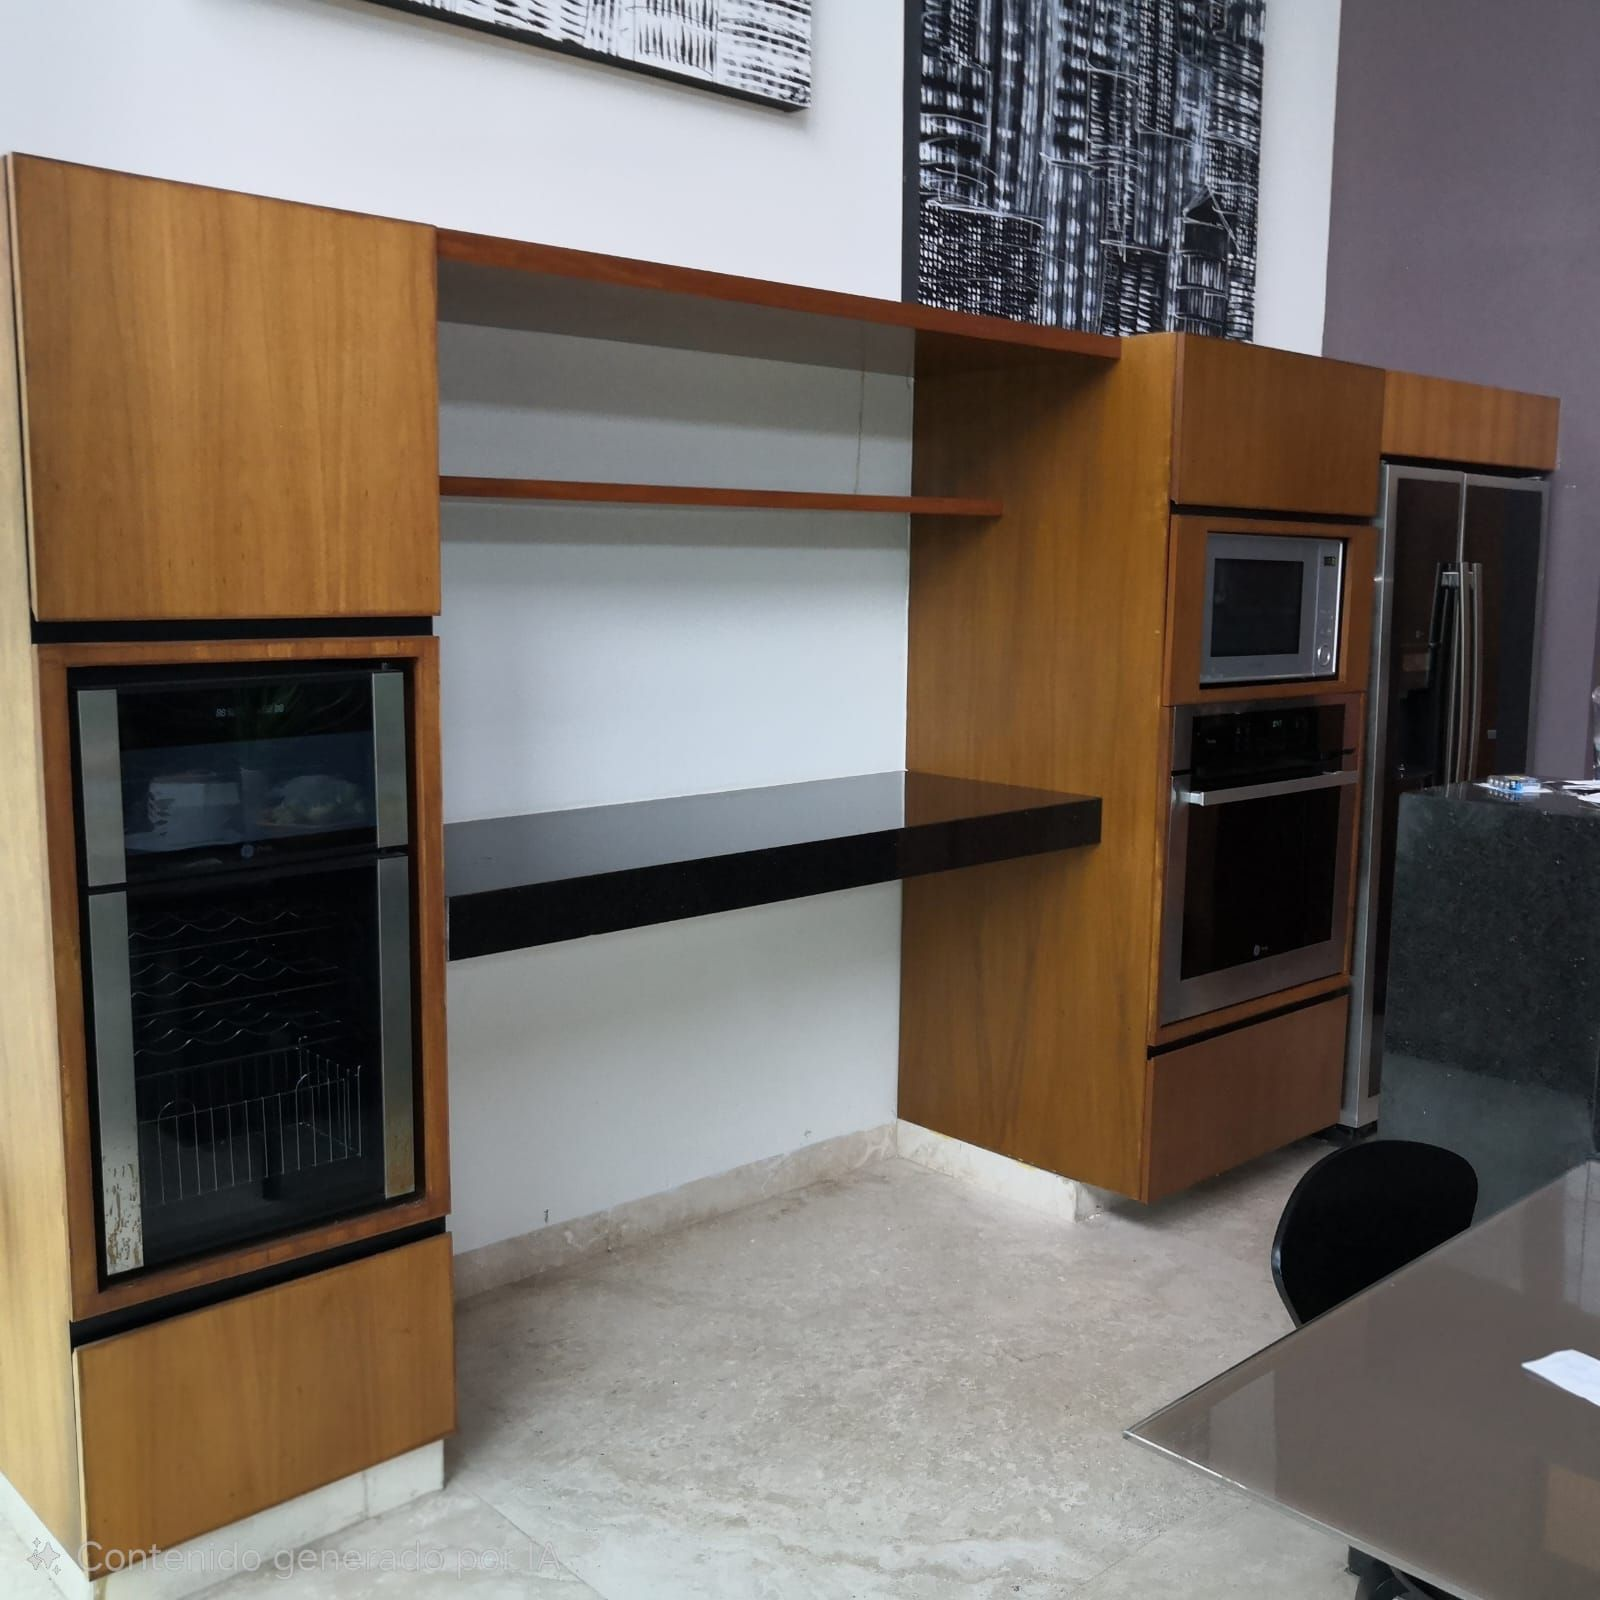
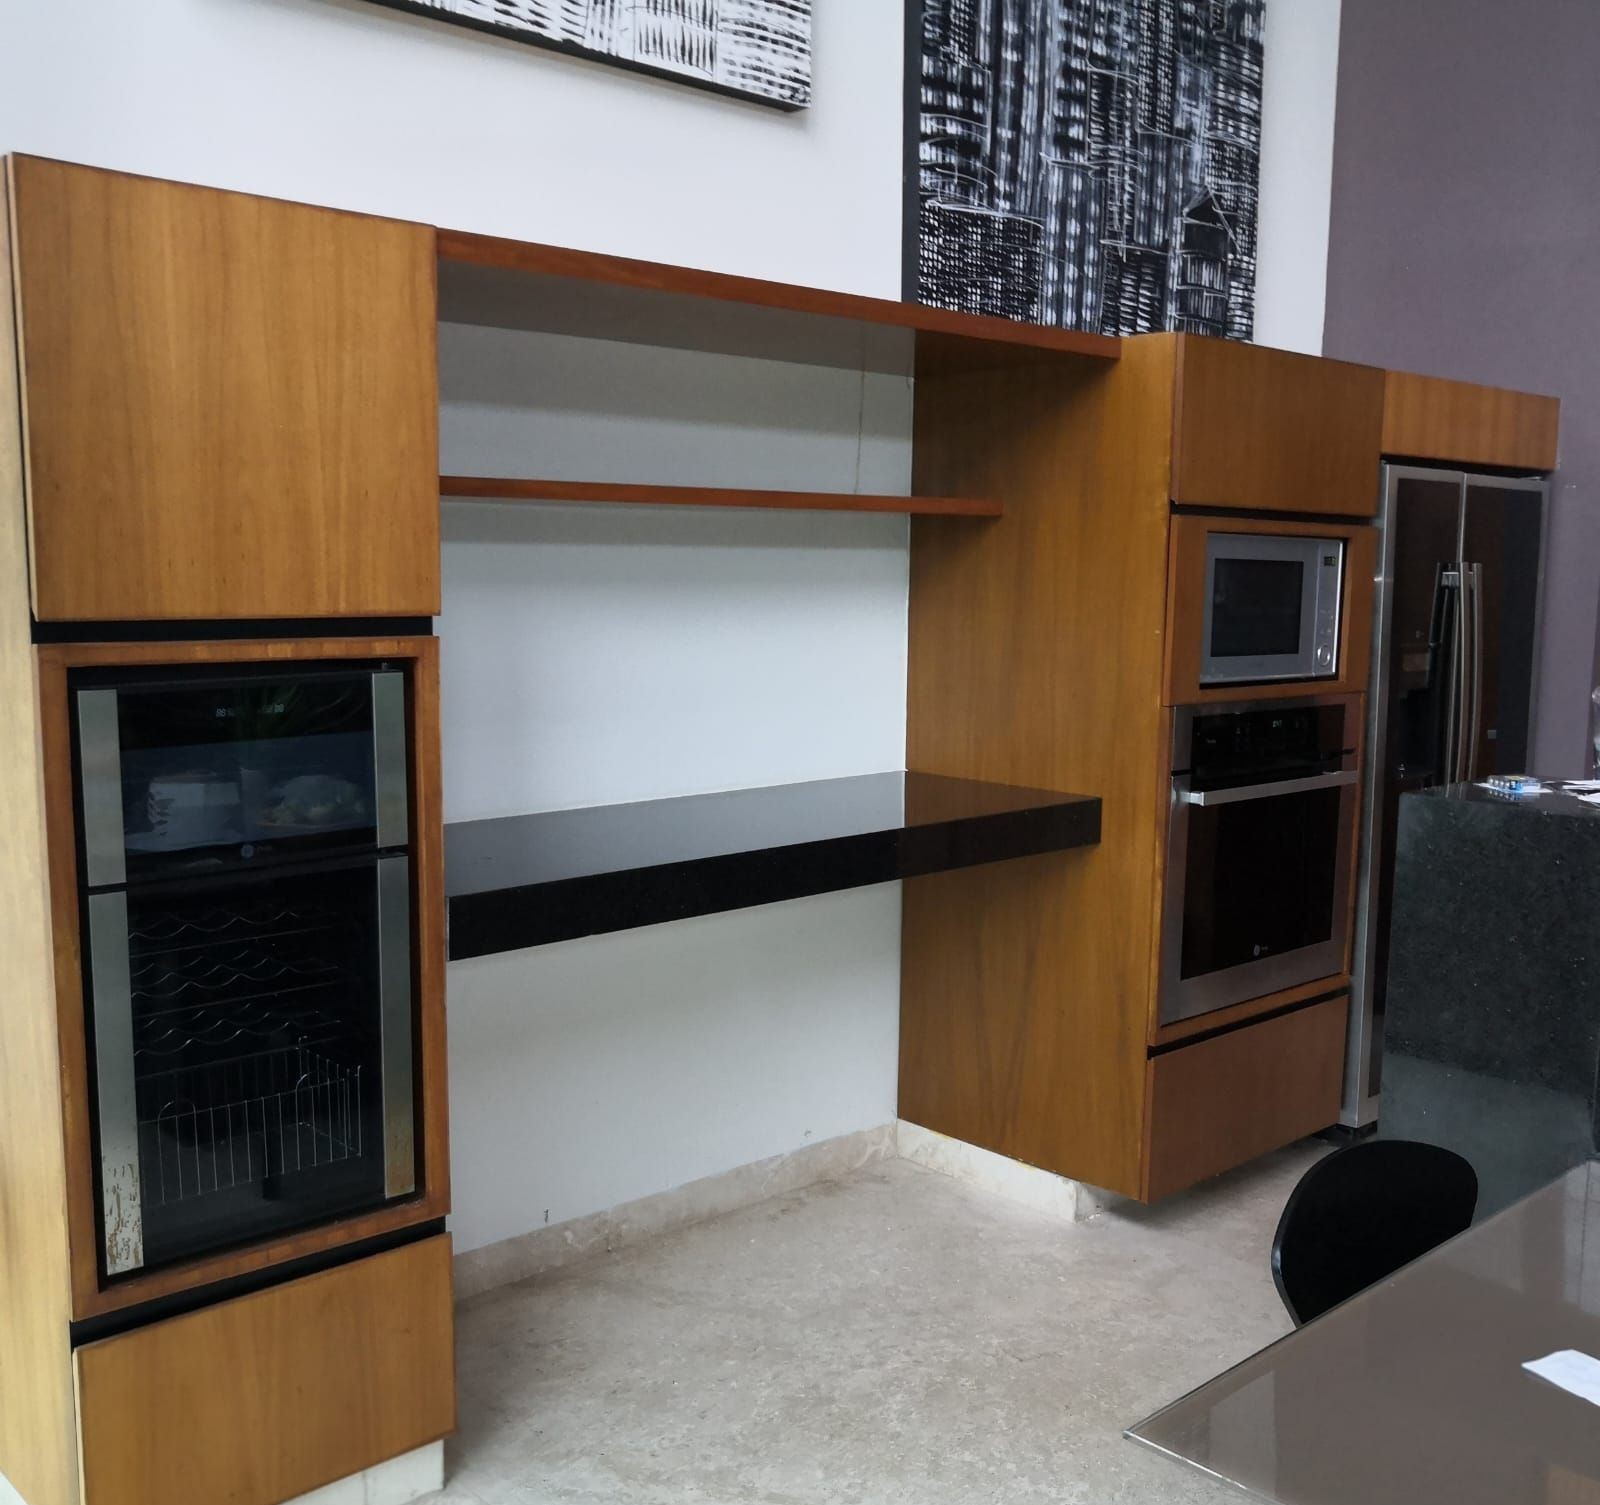
Update Images and files

diff --git a/app/terminos_y_condiciones/page.tsx b/app/terminos_y_condiciones/page.tsx
@@ -1,0 +1,124 @@
+import Header from "../components/Header";
+import Footer from "../components/Footer";
+
+export const metadata = {
+  title: "Términos y Condiciones",
+};
+
+export default function TerminosYCondiciones() {
+  return (
+    <>
+      <Header />
+
+      <main className="max-w-4xl mx-auto px-6 py-20 text-gray-800">
+        <h1 className="text-3xl font-title mb-6">Términos y Condiciones</h1>
+
+        <p className="mb-4 text-sm text-gray-500">
+          Última actualización: {new Date().toLocaleDateString("es-MX")}
+        </p>
+
+        <section className="space-y-6 leading-relaxed">
+          <p>
+            Al acceder y utilizar este sitio web, el usuario acepta los
+            presentes Términos y Condiciones. Si no está de acuerdo con alguno
+            de ellos, se recomienda no utilizar este sitio.
+          </p>
+
+          <div>
+            <h2 className="text-xl font-title mb-2">
+              1. Uso del sitio web
+            </h2>
+            <p>
+              Este sitio web tiene como finalidad proporcionar información
+              general sobre los servicios ofrecidos por{" "}
+              <strong>Yaxnic Muebles</strong>. La información publicada es
+              meramente informativa y puede cambiar sin previo aviso.
+            </p>
+          </div>
+
+          <div>
+            <h2 className="text-xl font-title mb-2">
+              2. Cotizaciones y servicios
+            </h2>
+            <p>
+              Las cotizaciones de los servicios no se realizan a través de este
+              sitio web. Cualquier cotización, presupuesto o acuerdo se llevará
+              a cabo exclusivamente por medio de comunicación directa, ya sea
+              vía WhatsApp o correo electrónico.
+            </p>
+            <p className="mt-2">
+              El envío de un mensaje o solicitud de información no representa un
+              compromiso u obligación contractual para ninguna de las partes.
+            </p>
+          </div>
+
+          <div>
+            <h2 className="text-xl font-title mb-2">
+              3. Propiedad intelectual
+            </h2>
+            <p>
+              Todos los contenidos de este sitio web, incluyendo textos,
+              imágenes, logotipos y diseño, son propiedad de{" "}
+              <strong>Yaxnic Muebles</strong> o se utilizan con la
+              autorización correspondiente, y están protegidos por la
+              legislación aplicable.
+            </p>
+            <p className="mt-2">
+              Queda prohibida su reproducción total o parcial sin autorización
+              previa.
+            </p>
+          </div>
+
+          <div>
+            <h2 className="text-xl font-title mb-2">
+              4. Limitación de responsabilidad
+            </h2>
+            <p>
+              <strong>Yaxnic Muebles</strong> no se hace responsable por
+              el uso que el usuario haga de la información contenida en este
+              sitio web, ni por posibles daños derivados del acceso o uso del
+              mismo.
+            </p>
+          </div>
+
+          <div>
+            <h2 className="text-xl font-title mb-2">
+              5. Enlaces a sitios de terceros
+            </h2>
+            <p>
+              Este sitio puede contener enlaces a plataformas externas, como
+              WhatsApp.{" "}
+              <strong>Yaxnic Muebles</strong> no se hace responsable por
+              el contenido, políticas o prácticas de privacidad de dichos
+              sitios.
+            </p>
+          </div>
+
+          <div>
+            <h2 className="text-xl font-title mb-2">
+              6. Modificaciones
+            </h2>
+            <p>
+              <strong>Yaxnic Muebles</strong> se reserva el derecho de
+              modificar estos Términos y Condiciones en cualquier momento. Las
+              modificaciones entrarán en vigor una vez publicadas en esta
+              sección.
+            </p>
+          </div>
+
+          <div>
+            <h2 className="text-xl font-title mb-2">
+              7. Legislación aplicable
+            </h2>
+            <p>
+              Estos Términos y Condiciones se rigen por las leyes aplicables en
+              los Estados Unidos Mexicanos.
+            </p>
+          </div>
+        </section>
+      </main>
+
+      <Footer />
+    </>
+  );
+}

diff --git a/app/aviso_de_privacidad/page.tsx b/app/aviso_de_privacidad/page.tsx
@@ -1,0 +1,116 @@
+import Header from "../components/Header";
+import Footer from "../components/Footer";
+
+export const metadata = {
+  title: "Aviso de Privacidad",
+};
+
+export default function AvisoDePrivacidad() {
+  return (
+    <>
+      <Header />
+
+      <main className="max-w-4xl mx-auto px-6 py-24 text-gray-800">
+        <h1 className="text-3xl font-title mb-6">Aviso de Privacidad</h1>
+
+        <p className="mb-4 text-sm text-gray-500">
+          Última actualización: {new Date().toLocaleDateString("es-MX")}
+        </p>
+
+        <section className="space-y-6 leading-relaxed">
+          <p>
+            En cumplimiento con lo establecido por la{" "}
+            <strong>
+              Ley Federal de Protección de Datos Personales en Posesión de los
+              Particulares
+            </strong>
+            , se informa lo siguiente:
+          </p>
+
+          <div>
+            <h2 className="text-xl font-title mb-2">
+              1. Responsable de los datos personales
+            </h2>
+            <p>
+              <strong>YaxnicMuebles</strong>, con domicilio en{" "}
+              <strong>Calle 18, 97390 Umán, Yuc. México  </strong>, es responsable del uso y
+              protección de sus datos personales.
+            </p>
+          </div>
+
+          <div>
+            <h2 className="text-xl font-title mb-2">
+              2. Datos personales que se recaban
+            </h2>
+            <ul className="list-disc list-inside">
+              <li>Nombre</li>
+              <li>Correo electrónico</li>
+              <li>Número telefónico</li>
+              <li>Mensaje o información relacionada con la solicitud</li>
+            </ul>
+            <p className="mt-2">
+              Los datos se proporcionan de manera voluntaria mediante el
+              formulario de contacto o comunicación vía WhatsApp.
+            </p>
+          </div>
+
+          <div>
+            <h2 className="text-xl font-title mb-2">
+              3. Finalidad del tratamiento de los datos
+            </h2>
+            <ul className="list-disc list-inside">
+              <li>Atender solicitudes de información</li>
+              <li>Responder mensajes enviados por el formulario</li>
+              <li>Dar seguimiento a consultas por correo o WhatsApp</li>
+            </ul>
+          </div>
+
+          <div>
+            <h2 className="text-xl font-title mb-2">
+              4. Transferencia de datos
+            </h2>
+            <p>
+              Sus datos personales no serán compartidos, vendidos ni
+              transferidos a terceros sin su consentimiento, salvo obligación
+              legal.
+            </p>
+          </div>
+
+          <div>
+            <h2 className="text-xl font-title mb-2">
+              5. Uso de plataformas de terceros
+            </h2>
+            <p>
+              El uso del botón de WhatsApp implica que la comunicación se
+              realizará mediante una plataforma externa, sujeta a sus propias
+              políticas de privacidad.
+            </p>
+          </div>
+
+          <div>
+            <h2 className="text-xl font-title mb-2">6. Derechos ARCO</h2>
+            <p>
+              El titular puede Acceder, Rectificar, Cancelar u Oponerse al
+              tratamiento de sus datos personales.
+            </p>
+            <p className="mt-2 font-medium">
+              yaxnicmuebles@gmail.com
+            </p>
+          </div>
+
+          <div>
+            <h2 className="text-xl font-title mb-2">
+              7. Cambios al aviso de privacidad
+            </h2>
+            <p>
+              Este aviso puede ser modificado en cualquier momento. Las
+              actualizaciones se publicarán en esta misma sección.
+            </p>
+          </div>
+        </section>
+      </main>
+
+      <Footer />
+    </>
+  );
+}

diff --git a/app/proyectos/[categoria]/page.tsx b/app/proyectos/[categoria]/page.tsx
@@ -23,10 +23,10 @@ const proyectos = [ { id: "1", nombre: "Proyecto Alpha", descripcion: "Descripci
   //{ id: "6", nombre: "Proyecto Zeta", descripcion: "Descripción del Proyecto Zeta", categoria: "Baños", imagenes: ['yaxnicMuebles/banos/bano1-1', 'yaxnicMuebles/banos/bano1-2', 'yaxnicMuebles/banos/bano1-3'] }, // 
   //{ id: "7", nombre: "Proyecto Eta", descripcion: "Descripción del Proyecto Eta", categoria: "Recámaras", imagenes: ['yaxnicMuebles/recamaras/recamara1-1', 'yaxnicMuebles/recamaras/recamara1-2', 'yaxnicMuebles/recamaras/recamara1-3'] }, 
   // // { id: "8", nombre: "Proyecto Theta", descripcion: "Descripción del Proyecto Theta", categoria: "Sillas y Mesas", imagenes: ['yaxnicMuebles/sillas_y_mesas/mesas1-1', 'yaxnicMuebles/sillas_y_mesas/mesas1-2', 'yaxnicMuebles/sillas_y_mesas/mesas1-3'] }, 
-    { id: "59", nombre: "Proyecto Stabucks Chetumal", descripcion: "Proyecto starbucks chetumal", categoria: "Comerciales", imagenes: ['/yaxnicMuebles/comerciales/comercial1-1.jpg', '/yaxnicMuebles/comerciales/comercial1-2.jpg', '/yaxnicMuebles/comerciales/comercial1-3.jpg'] },
+    { id: "59", nombre: "Proyecto Stabucks Chetumal", descripcion: "Proyecto starbucks chetumal", categoria: "Comerciales", imagenes: ['/yaxnicMuebles/comerciales/comercial1-1.webp', '/yaxnicMuebles/comerciales/comercial1-2.jpg', '/yaxnicMuebles/comerciales/comercial1-3.jpg'] },
   // 
     { id: "60", nombre: "Proyecto Restauracion", descripcion: "Descripción del Proyecto Comercial 2", categoria: "Restauraciones", imagenes: ['/yaxnicMuebles/restauraciones/restauracion1-1.jpg', '/yaxnicMuebles/restauraciones/restauracion1-2.jpg', '/yaxnicMuebles/restauraciones/restauracion1-3.jpg'] },
-    { id: "61", nombre: "Proyecto Restauracion", descripcion: "Descripción del Proyecto Comercial 2", categoria: "Restauraciones", imagenes: ['/yaxnicMuebles/restauraciones/restauracion2-1.jpg', '/yaxnicMuebles/restauraciones/restauracion2-2.jpg', '/yaxnicMuebles/restauraciones/restauracion2-3.jpg', '/yacnicMuebles/restauraciones/restauracion2-4.jpg', 'restauraciones/restauracion2-5.jpg'] },
+    { id: "61", nombre: "Proyecto Restauracion", descripcion: "Descripción del Proyecto Comercial 2", categoria: "Restauraciones", imagenes: ['/yaxnicMuebles/restauraciones/restauracion2-1.jpg', '/yaxnicMuebles/restauraciones/restauracion2-2.jpg', '/yaxnicMuebles/restauraciones/restauracion2-3.jpg', '/yaxnicMuebles/restauraciones/restauracion2-4.jpg', '/yaxnicMuebles/restauraciones/restauracion2-5.jpg'] },
     { id: "62", nombre: "Proyecto Restauracion", descripcion: "Descripción del Proyecto Comercial 2", categoria: "Restauraciones", imagenes: ['/yaxnicMuebles/restauraciones/restauracion3-1.jpg', '/yaxnicMuebles/restauraciones/restauracion3-2.jpg', '/yaxnicMuebles/restauraciones/restauracion3-3.jpg', '/yaxnicMuebles/restauraciones/restauracion3-4.jpg', '/yaxnicMuebles/restauraciones/restauracion3-5.jpg'] },
     { id: "63", nombre: "Proyecto Restauracion", descripcion: "Descripción del Proyecto Comercial 2", categoria: "Restauraciones", imagenes: ['/yaxnicMuebles/restauraciones/restauracion4-1.jpg', '/yaxnicMuebles/restauraciones/restauracion4-2.jpg', '/yaxnicMuebles/restauraciones/restauracion4-3.jpg', '/yaxnicMuebles/restauraciones/restauracion4-4.jpg'] },
     ];

diff --git a/app/components/Header.tsx b/app/components/Header.tsx
@@ -48,9 +48,9 @@ const Header = () => {
 
           {/* Contact Button */}
           <div className="hidden md:block">
-            <Link href="/contacto">
-              <Button className="bg-gray-dark rounded-lg hover:bg-white hover:text-gray-dark text-white transition-all duration-300 hover:scale-105">
-                Contáctanos
+            <Link target="_blank" rel="noopener noreferrer" href="https://wa.me/529993474481?text=Hola,%20tengo%20un%20proyecto%20en%20mente%20y%20me%20gustar%C3%ADa%20saber%20si%20me%20pueden%20ayudar.%20%C2%BFMe%20podr%C3%ADan%20brindar%20m%C3%A1s%20informaci%C3%B3n%3F">
+              <Button className="font-title bg-gray-dark rounded-lg hover:bg-white hover:text-gray-dark text-white transition-all duration-300 hover:scale-105">
+                Cotiza tu proyecto
               </Button>
             </Link>
           </div>
@@ -83,9 +83,9 @@ const Header = () => {
                   {item.name}
                 </Link>
               ))}
-              <Link href="/contacto" onClick={() => setIsMenuOpen(false)}>
-                <Button className="w-full bg-primary hover:bg-primary/90 text-primary-foreground mt-4">
-                  Contáctanos
+              <Link href="https://wa.me/529993474481?text=Hola,%20tengo%20un%20proyecto%20en%20mente%20y%20me%20gustar%C3%ADa%20saber%20si%20me%20pueden%20ayudar.%20%C2%BFMe%20podr%C3%ADan%20brindar%20m%C3%A1s%20informaci%C3%B3n%3F" onClick={() => setIsMenuOpen(false)}>
+                <Button className="font-title w-full bg-primary hover:bg-primary/90 text-primary-foreground mt-4">
+                  Cotiza tu proyecto
                 </Button>
               </Link>
             </div>

diff --git a/app/components/ProjectsSection.tsx b/app/components/ProjectsSection.tsx
@@ -32,21 +32,16 @@ const ProjectsSection = () => {
       description: "Sillas y mesas con diseño funcional y acabados de alta calidad.",
       image: "yaxnicMuebles/sillas_y_mesas/sm1-2.jpg",
     },
-    {
-      name: "Recámaras",
-      description: "Recámaras completas con muebles de madera que combinan confort y diseño.",
-      image: "yaxnicMuebles/recamaras/IMG_20201112_082957.jpg",
-    },
 
     {
       name: "Comerciales",
       description: "Muebles para negocios pensados para proyectar una imagen profesional y atractiva.",
-      image: "https://images.unsplash.com/photo-1649972904349-6e44c42644a7?ixlib=rb-4.0.3&auto=format&fit=crop&w=600&q=80",
+      image: "yaxnicMuebles/comerciales/comercial1-1.webp",
     },  
     {
       name: "Restauraciones",
       description: "Restauración de muebles conservando su diseño y funcionalidad original.",
-      image: "https://plus.unsplash.com/premium_photo-1681816189276-69731364c133?q=80&w=2091&auto=format&fit=crop&ixlib=rb-4.1.0&ixid=M3wxMjA3fDB8MHxwaG90by1wYWdlfHx8fGVufDB8fHx8fA%3D%3D",
+      image: "/yaxnicMuebles/restauraciones/restauracion2-2.jpg",
     }
   ];
 

diff --git a/app/components/Footer.tsx b/app/components/Footer.tsx
@@ -87,12 +87,12 @@ const Footer = () => {
             © {currentYear} Yaxnic Muebles. Todos los derechos reservados.
           </p>
           <div className="flex space-x-6 mt-4 md:mt-0">
-            <a href="#" className="text-gray-400 hover:text-primary-foreground text-sm transition-colors duration-200">
+            <Link href="/aviso_de_privacidad" className="text-gray-400 hover:text-primary-foreground text-sm transition-colors duration-200">
               Aviso de Privacidad
-            </a>
-            <a href="#" className="text-gray-400 over:text-primary-foreground text-sm transition-colors duration-200">
+            </Link>
+            <Link href="/terminos_y_condiciones" className="text-gray-400 over:text-primary-foreground text-sm transition-colors duration-200">
               Términos y Condiciones
-            </a>
+            </Link>
           </div>
         </div>
       </div>

diff --git a/app/proyectos/[categoria]/proyectos.tsx b/app/proyectos/[categoria]/proyectos.tsx
@@ -27,10 +27,10 @@ export default function ProyectosClient({
       <ScrollToTop />
       <AnimateOnScroll />
 
-      <section className="px-4 md:px-10 py-10">
-       <Grid container spacing={3} className="scroll-animate">
+      <section className="bg-gradient-to-t from-gray-medium/20 to-gray-light px-4 md:px-10 py-10">
+       <Grid container spacing={7} className="scroll-animate">
   {proyectos.map((p) => (
-    <Grid size={{ xs: 12, sm: 6, md: 4 }} key={p.id}>
+    <Grid size={{ xs: 12, sm: 6, md: 6 }} key={p.id}>
       <div
         onClick={() => setProyectoActivo(p)}
         className="cursor-pointer group"

diff --git a/app/page.tsx b/app/page.tsx
@@ -54,7 +54,7 @@ import Image from "next/image";
     },
     {
       title: "Mesa de Centro",
-      category: "sillas_y_mesas",
+      category: "sillas-y-mesas",
       description: "Mesa con madera de Encino, con soporte de herreria y cubierta de Granito de alta calidad.",
       image: "/yaxnicMuebles/sillas_y_mesas/sm1-1.jpg"
     },

diff --git a/app/contacto/page.tsx b/app/contacto/page.tsx
@@ -21,7 +21,7 @@ export default function Contact() {
     },
     {
       icon: <Mail className="h-8 w-8 text-gray-300" />,
-      title: "Escríbenos",
+      title: "Correo",
       description: "Envíanos tu proyecto y te contactaremos pronto",
       detail: "yaxnicmuebles@gmail.com",
       action: "#contacto"
